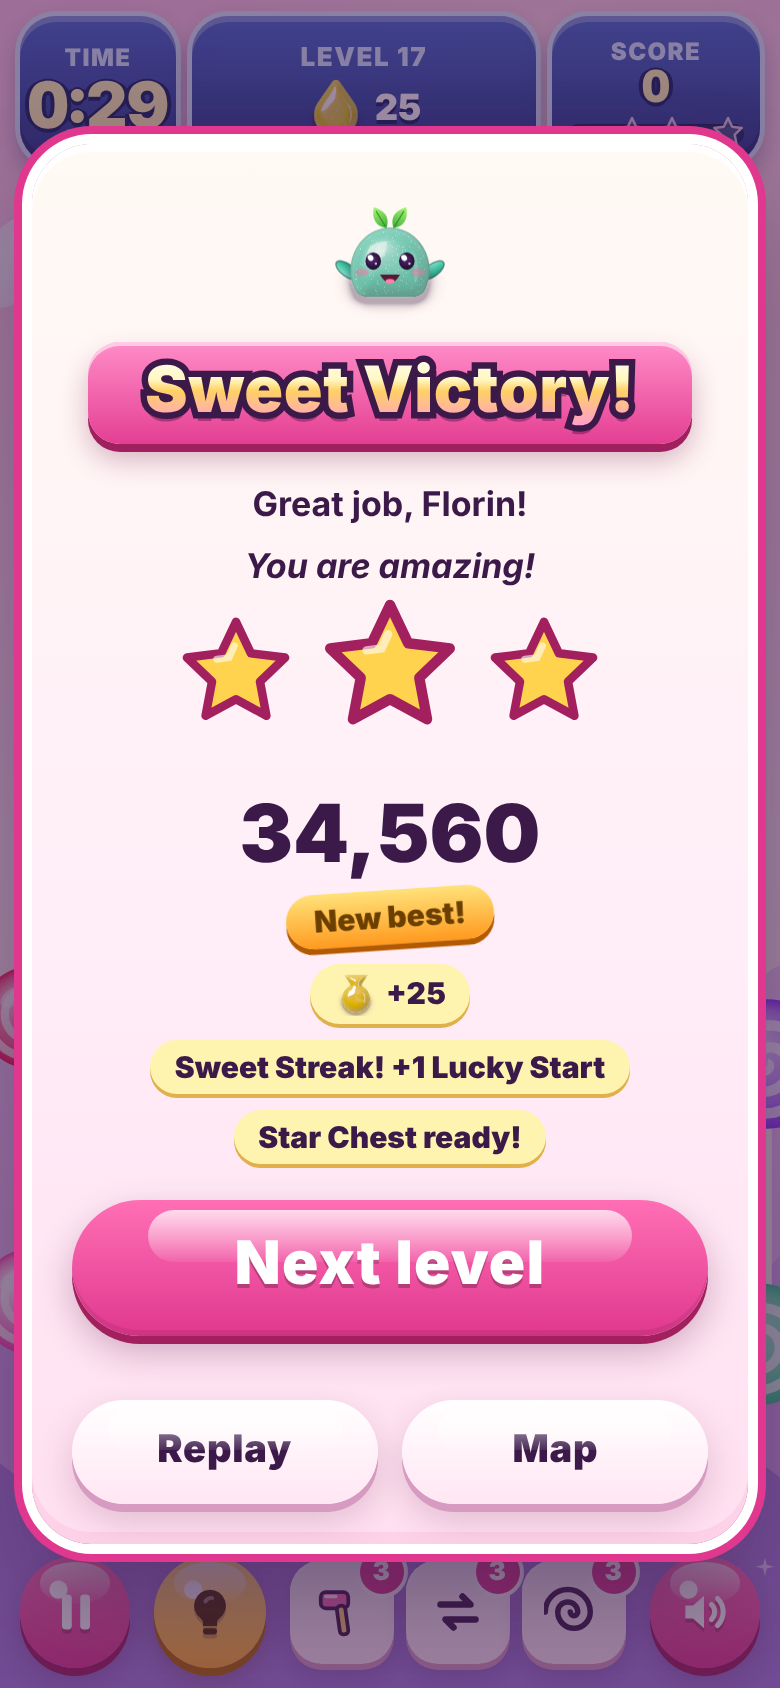
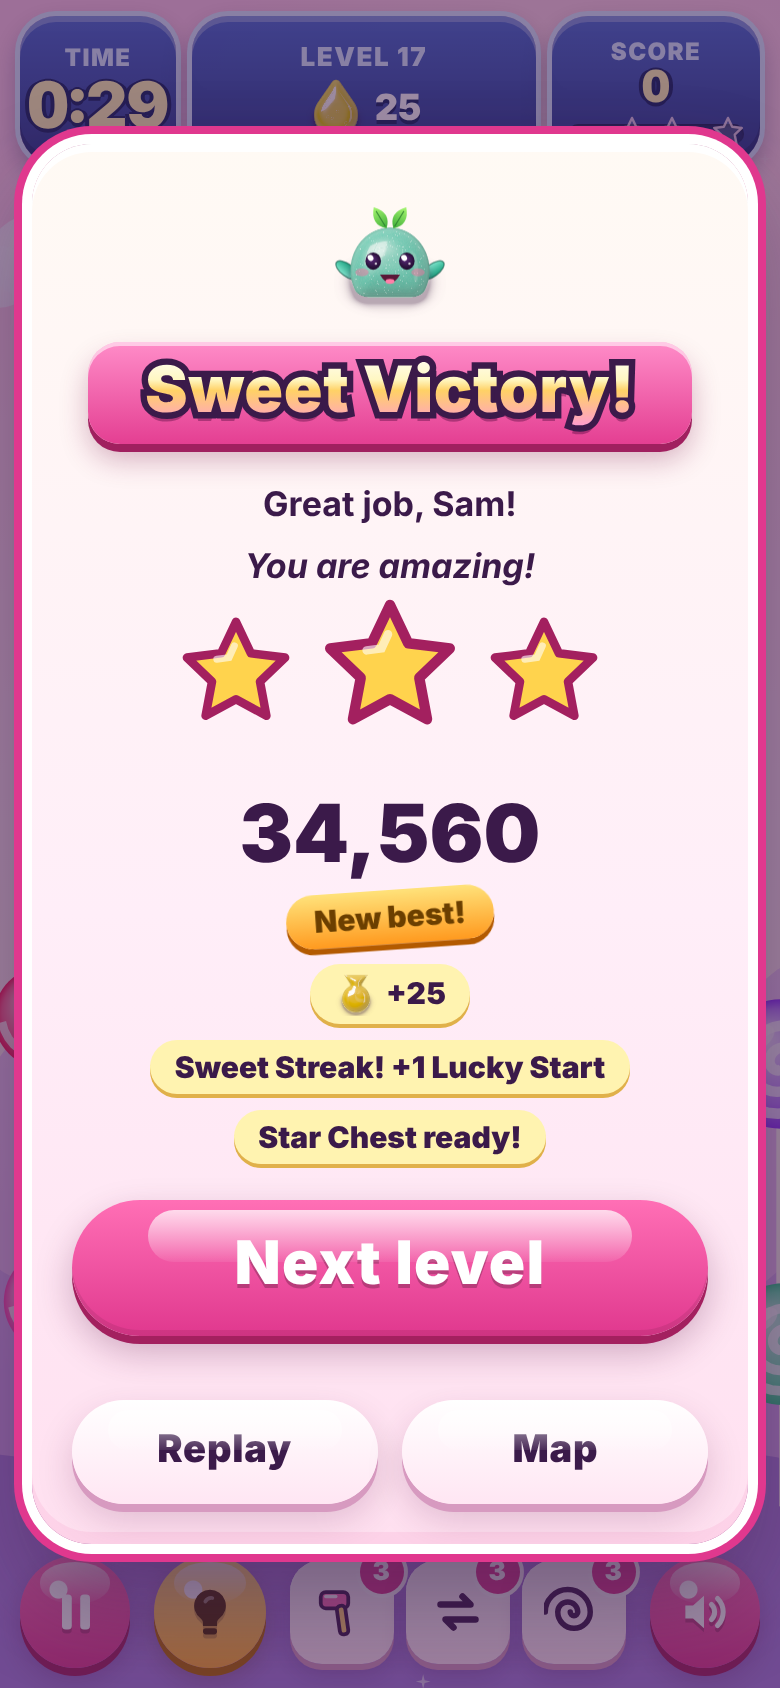
Use a neutral sample player name (Sam) in tests, the self-test and screenshots
The sample name had been taken from the account owner's email address; it never came
from the device or the game, but it does not belong in the repository.

Claude-Session: https://claude.ai/code/session_014wA35Zw5oBT73siBgt3z2U

diff --git a/tests/browser/gameplay.spec.js b/tests/browser/gameplay.spec.js
@@ -8,7 +8,7 @@ test.describe.configure({ mode: 'parallel' });
 
 test('first launch plays Level 1 to a win with swipes and tap-taps; progress persists and Level 2 unlocks', async ({ page }) => {
   const problems = H.guardPage(page);
-  await H.bootGame(page, { name: 'Florin' });
+  await H.bootGame(page, { name: 'Sam' });
   const start = await H.snapshot(page);
   expect(start.level).toBe(1);
   expect(start.moves_left).toBe(await H.levelMoves(page, 1));
@@ -16,7 +16,7 @@ test('first launch plays Level 1 to a win with swipes and tap-taps; progress per
   const played = await H.playLevel(page, { max_moves: 30 });
   expect(played.used_swipe).toBeGreaterThan(0);
   await H.waitForModal(page, 'win', 120000);
-  await expect(page.locator('[data-modal="win"]')).toContainText('Great job, Florin!');
+  await expect(page.locator('[data-modal="win"]')).toContainText('Great job, Sam!');
   await expect.poll(async () => (await H.snapshot(page)).unlocked).toBe(2);
   const best = await page.evaluate(() => window.SC.STORAGE.levelBest(window.SC.game.store.save, 1));
   expect(best.stars).toBeGreaterThanOrEqual(1);
@@ -27,8 +27,8 @@ test('first launch plays Level 1 to a win with swipes and tap-taps; progress per
   await page.waitForTimeout(400);
   await H.reloadGame(page);
   const after_reload = await page.evaluate(() => ({ unlocked: window.SC.game.store.save.unlocked, stars: window.SC.STORAGE.levelBest(window.SC.game.store.save, 1).stars, name: window.SC.game.store.save.player_name }));
-  expect(after_reload).toEqual({ unlocked: 2, stars: best.stars, name: 'Florin' });
-  await expect(page.locator('#title-greeting')).toHaveText('Hi, Florin!');
+  expect(after_reload).toEqual({ unlocked: 2, stars: best.stars, name: 'Sam' });
+  await expect(page.locator('#title-greeting')).toHaveText('Hi, Sam!');
   await page.click('#btn-play');
   await H.waitState(page, 'MAP');
   await expect(page.locator('.map-node[data-level-id="2"]')).not.toHaveClass(/is-locked/);
@@ -695,7 +695,7 @@ test('a long press released on a button activates it exactly once (mouse and tou
 
 test('after a win, Next level goes to the map, the marker hops to the new level and its intro opens', async ({ page }) => {
   const problems = H.guardPage(page);
-  await H.bootGame(page, { name: 'Florin' });
+  await H.bootGame(page, { name: 'Sam' });
   await H.playLevel(page, { max_moves: 30 });
   await H.waitForModal(page, 'win', 120000);
   await page.waitForTimeout(1500);

diff --git a/tests/browser/screenshots.spec.js b/tests/browser/screenshots.spec.js
@@ -20,8 +20,8 @@ const FEATURE_LEVELS = [[19, 'cage'], [21, 'portals'], [22, 'cocoa'], [24, 'fuse
 test.describe.configure({ mode: 'parallel' });
 
 async function prepare(page, theme) {
-  await H.bootGame(page, { name: 'Florin' });
-  await H.seedSave(page, { unlocked: 19001, stars_upto: 19000, name: 'Florin', settings: { theme } });
+  await H.bootGame(page, { name: 'Sam' });
+  await H.seedSave(page, { unlocked: 19001, stars_upto: 19000, name: 'Sam', settings: { theme } });
 }
 
 async function settle(page, milliseconds) {
@@ -100,7 +100,7 @@ for (const size of SIZES) {
       await page.evaluate(() => {
         const game = window.SC.game;
         game.ui.closeAllModals();
-        game.ui.showWin({ score: 34560, stars: 3, is_new_best: true, player_name: 'Florin', win_message: 'You are amazing!', has_next: true, rewards: { gold: 25, streak_reward: 'lucky', chest_ready: true }, streak: 3 }, { next() {}, replay() {}, map() {} });
+        game.ui.showWin({ score: 34560, stars: 3, is_new_best: true, player_name: 'Sam', win_message: 'You are amazing!', has_next: true, rewards: { gold: 25, streak_reward: 'lucky', chest_ready: true }, streak: 3 }, { next() {}, replay() {}, map() {} });
       });
       await page.waitForTimeout(2200);
       await shot('09-win');
@@ -108,7 +108,7 @@ for (const size of SIZES) {
         const game = window.SC.game;
         game.ui.closeAllModals();
         const progress = window.SC.LOGIC.goalProgress(game.logic);
-        game.ui.showLose({ progress, goals: game.level.goals, player_name: 'Florin', reason: game.logic.timed ? 'time' : 'moves', can_continue: true, price: 60, gold: 140, timed: game.logic.timed }, { retry() {}, map() {}, plusFive() {} });
+        game.ui.showLose({ progress, goals: game.level.goals, player_name: 'Sam', reason: game.logic.timed ? 'time' : 'moves', can_continue: true, price: 60, gold: 140, timed: game.logic.timed }, { retry() {}, map() {}, plusFive() {} });
       });
       await settle(page, 700);
       await shot('10-lose');

diff --git a/www/js/selftest.js b/www/js/selftest.js
@@ -1190,7 +1190,7 @@
   // 20. Storage
   test('storage', 'round-trip, corrupted JSON fallback, v1-v3 migration, defaults for missing keys', (assert) => {
     const save = STORAGE.defaultSave();
-    save.player_name = 'Florin';
+    save.player_name = 'Sam';
     save.settings.theme = 'hard';
     save.meta.boosters.hammer = 7;
     STORAGE.recordResult(save, 1, { won: true, score: 4005, stars: 2 });
